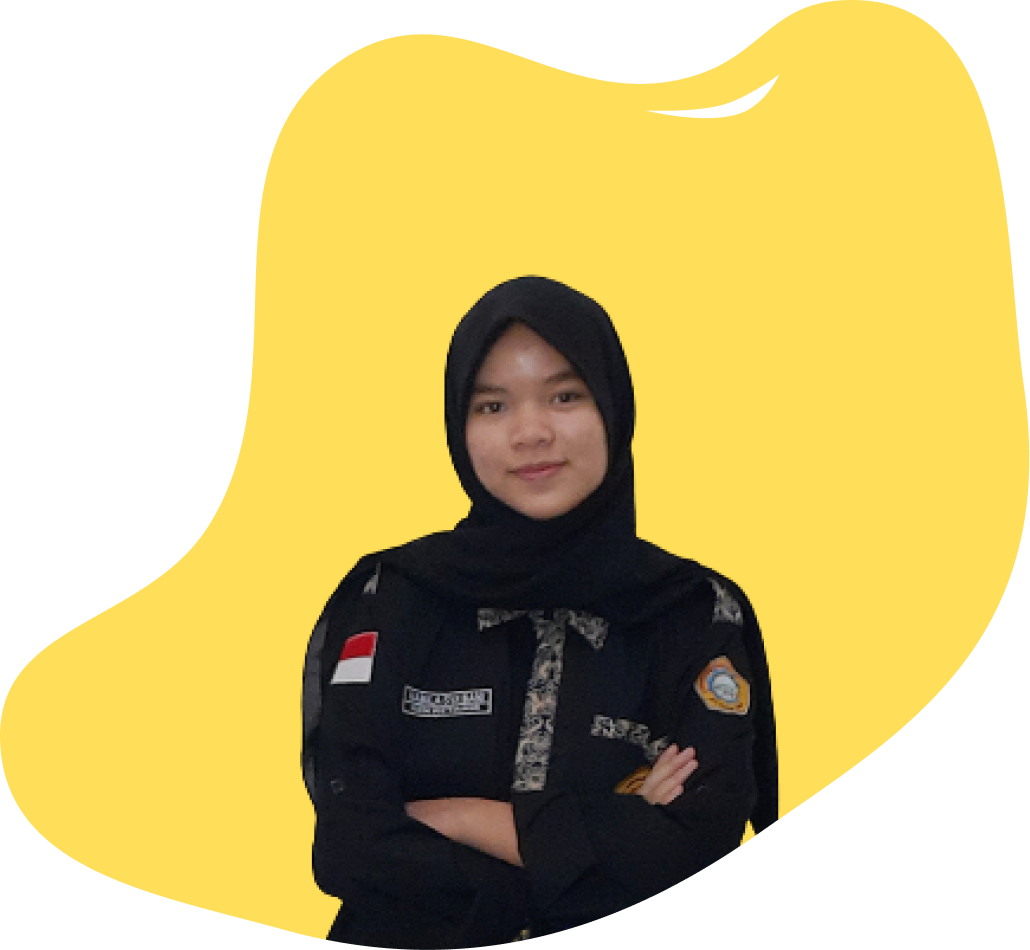
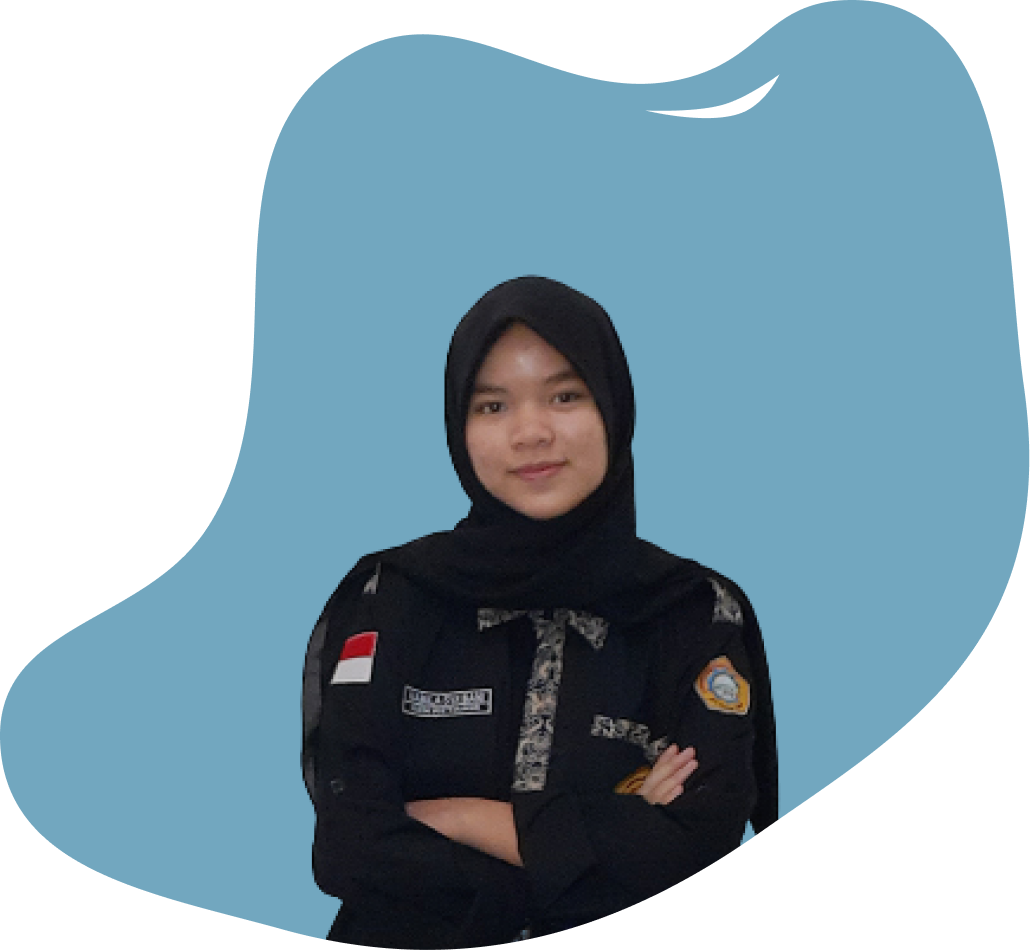
about page

diff --git a/about.html b/about.html
@@ -1,0 +1,33 @@
+<!DOCTYPE html>
+<html lang="en">
+<head>
+    <meta charset="UTF-8">
+    <meta name="viewport" content="width=device-width, initial-scale=1.0">
+    <meta http-equiv="X-UA-Compatible" content="ie=edge">
+    <link rel="stylesheet" type="text/css" href="style.css" />
+    <link href="https://fonts.googleapis.com/css2?family=B612:ital,wght@0,400;0,700;1,400;1,700&family=Chau+Philomene+One:ital@0;1&family=Nunito:wght@200;300;400;500;600;700&display=swap" rel="stylesheet">
+</head>
+<body>
+    <!-- Tambahkan kode kalian di sini -->
+    <div class="main">
+        <nav>
+            <a href="index.html">Home</a> 
+            <a href="about.html">About</a> 
+            <a href="portofolio.html">Portofolio</a> 
+            <a href="blog.html">Blog/Article</a>
+        </nav>
+        <header class="header2">
+            <div class="sub-title">
+                <h2> Tentang Saya,</h2>
+            </div>
+            <div class="profil2">
+                <img src="image/profil2.png">
+            </div>
+            <div class="about-me">
+                <h1> Nabila Sya'bani Wardana</h1>
+                <p>Seorang mahasiswa semester 6 Program Studi Informatika, Fakultas Ilmu Komputer, UPN "Veteran" Jawa Timur kelahiran 31 Oktober 2002 yang memiliki ketertarikan dalam bidang Desain Antarmuka Pengguna (UI/UX) dan Pengembangan Web. Saya senang membuat desain yang menarik dan mudah digunakan bagi pengguna, saya juga tertarik untuk mengeksplorasi teknologi web terbaru untuk membuat situs web yang inovatif dan efektif. Saya ingin mengembangkan pengalaman dan keterampilan yang saya peroleh agar dapat menciptakan pengalaman digital yang luar biasa dan bermanfaat bagi pengguna. Saya berusaha untuk terus belajar dan mengembangkan keterampilan saya di bidang yang saya gemari ini agar dapat menjadi seorang profesional yang sukses di masa depan.</p>
+            </div>
+        </header>
+    </div>
+</body>
+</html>

diff --git a/style.css b/style.css
@@ -10,7 +10,7 @@ nav{
     display: flex;
     width: max;
     margin: auto;
-    padding: 30px 50px 30px 50px;
+    padding: 10px 50px 10px 50px;
     background-color: white;
     flex-direction: row-reverse;
 }
@@ -69,6 +69,7 @@ nav a:hover{
     text-decoration: none;
     color: black;
     border-radius: 15px;
+	box-shadow: 0 15px 35px rgb(213, 206, 163);
 }
 
 .info a:hover{
@@ -83,22 +84,26 @@ nav a:hover{
     margin-top: 50px;
     margin-right: 100px;
     margin-bottom: 30px;
+    transition: transform 0.5s ease-in-out;
 }
 
+.profil img:hover{
+    transform: translateY(-20px);
+}
 .inner{
     padding-top: 20px;
 }
 
 /* begin :: skill style */
 
-.subTitle{
+.sub-title{
     text-align: center;
     color: black;
     padding: 1rem;
     position: relative;
 }
 
-/* .subTitle:after{
+.sub-title:after{
     content : '';
     position: absolute;
     bottom: 0;
@@ -106,8 +111,8 @@ nav a:hover{
     transform: translateX(-50%);
     height: 4px;
     width: 100px;
-    background-color: beige;
-} */
+    background-color: rgb(20, 108, 148);
+}
 
 .container{
     display: grid;
@@ -198,6 +203,44 @@ nav a:hover{
     border-radius: 10px;
 }
 
-/* end :: skill style*/
+/* end:skill style*/
+
+/* begin:about style */
+.header2{
+    background-color: beige;
+    text-align: center;
+    display: flex;
+    flex-direction: column;
+    /* background-image: url('image/18.jpg');
+    background-size: cover;
+    background-position: center center; */
+}
+.profil2 img{
+    width: 250px;
+    margin: auto;
+    padding: 50px 0 30px 0;
+}
+.about-me{
+    margin: auto;
+}
+.about-me h2{
+    font-size: 25px;
+}
+.about-me h1{
+    font-size: 50px;
+    color: rgb(20, 108, 148);
+}
+
+.about-me p{
+    text-align: center;
+    font-size: 14px;
+    letter-spacing: 1px;
+    line-height: 24px;
+    padding: 0 200px;
+    margin: 20px;
+    font-weight: normal;
+}
+
+/* end:about style */
   
 

diff --git a/index.html b/index.html
@@ -30,7 +30,7 @@
         </header>
 
         <div class="inner">
-            <div class="subTitle">
+            <div class="sub-title">
                 <h1>My Skills</h1>
             </div>
             <div class="container">
